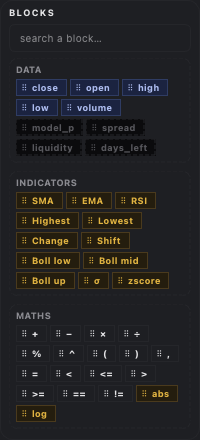
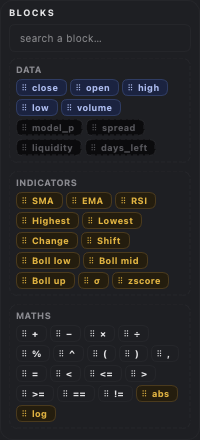
Square the tiles, fix the `=` and drop the fill tile from a new variable
Chips and palette blocks are 6px squares, not 11px pills. A named line is
`name =` and nothing more: the `=` is a fixed fixture — no handle, no ×,
no drag — drawn as quiet text, and adding a variable no longer drops an
empty slot to fill.

diff --git a/src/lalala/formula_builder.py b/src/lalala/formula_builder.py
@@ -403,10 +403,13 @@ class PaletteBlock(QFrame):
 class Chip(QFrame):
     """One token on a line. A `None` token is an empty slot to be filled."""
 
-    def __init__(self, token, builder: "FormulaBuilder", parent=None) -> None:
+    def __init__(
+        self, token, builder: "FormulaBuilder", parent=None, fixed: bool = False
+    ) -> None:
         super().__init__(parent)
         self.token = token
         self.builder = builder
+        self.fixed = fixed
         self.strip = None
         self._press: QPoint | None = None
         self.setObjectName("formulaChip")
@@ -462,18 +465,27 @@ class Chip(QFrame):
         self.label.setText("▢" if slot else str(self.token))
         self.setProperty("slot", slot)
         self.setProperty("group", self.group())
-        self.handle.setVisible(not slot)
-        self.remove_button.setVisible(not slot)
+        self.setProperty("fixed", self.fixed)
+        self.handle.setVisible(not slot and not self.fixed)
+        self.remove_button.setVisible(not slot and not self.fixed)
         self.setAcceptDrops(slot)
         self.setCursor(
-            Qt.CursorShape.PointingHandCursor
-            if slot
-            else Qt.CursorShape.OpenHandCursor
+            Qt.CursorShape.ArrowCursor
+            if self.fixed
+            else (
+                Qt.CursorShape.PointingHandCursor
+                if slot
+                else Qt.CursorShape.OpenHandCursor
+            )
         )
         self.setToolTip(
-            "empty slot — drop a number in, or click it and type one"
-            if slot
-            else "drag by the handle · × takes it off"
+            ""
+            if self.fixed
+            else (
+                "empty slot — drop a number in, or click it and type one"
+                if slot
+                else "drag by the handle · × takes it off"
+            )
         )
         self._repolish()
 
@@ -490,7 +502,7 @@ class Chip(QFrame):
             self._press = event.position().toPoint()
 
     def mouseMoveEvent(self, event) -> None:  # noqa: N802
-        if self._press is None or self.is_slot():
+        if self._press is None or self.is_slot() or self.fixed:
             return
         moved = (event.position().toPoint() - self._press).manhattanLength()
         if moved < QApplication.startDragDistance():
@@ -767,8 +779,8 @@ class ChipStrip(QFrame):
     def set_caption(self, text: str) -> None:
         self.caption.setText(text)
 
-    def add_chip(self, token, index: int | None = None) -> Chip:
-        chip = Chip(token, self.builder, self.zone)
+    def add_chip(self, token, index: int | None = None, fixed: bool = False) -> Chip:
+        chip = Chip(token, self.builder, self.zone, fixed=fixed)
         return self._place(chip, index)
 
     def add_name_chip(self, token="", index: int | None = None) -> NameChip:
@@ -1553,6 +1565,9 @@ class FormulaBuilder(QWidget):
                     and plan[1] == ("token", "=")
                 ):
                     strip.add_name_chip(payload)
+                elif kind == "token" and payload == "=":
+                    # The assignment's `=` is a fixture, not a token to move.
+                    strip.add_chip("=", fixed=True)
                 else:
                     strip.add_chip(payload)
         self._refresh()
@@ -1577,16 +1592,16 @@ class FormulaBuilder(QWidget):
             self.strip_layout.addWidget(self.strips[-1])
 
     def add_variable(self) -> ChipStrip:
-        """Add a named series above the condition: `name = ▢`.
+        """Add a named series above the condition: `name =`.
 
-        The name field takes the cursor, so it is obvious where to type; the
-        expression then goes in the empty slot after the `=`.
+        The line is just the name field and the fixed `=`: nothing else to
+        fill. The name takes the cursor, and the series goes on the line by
+        dragging a block onto it.
         """
         index = max(0, len(self.strips) - 1)
         strip = self.add_strip(at=index)
         name = strip.add_name_chip("")
-        strip.add_chip("=")
-        strip.add_chip(None)
+        strip.add_chip("=", fixed=True)
         self._refresh()
         name.focus_name()
         return strip

diff --git a/tests/test_formula_builder.py b/tests/test_formula_builder.py
@@ -364,17 +364,19 @@ def test_add_variable_gives_a_name_field(
     app.processEvents()
 
     chips = strip.chips()
-    # A line starts with the editable name, then `=`, then an empty slot.
+    # Just the editable name and the fixed `=`: nothing else to fill.
     assert isinstance(chips[0], NameChip)
     assert chips[0].edit.placeholderText() == "name"
     assert chips[0].edit.hasFocus()
-    assert [chip.token for chip in chips[1:]] == ["=", None]
+    assert [chip.token for chip in chips[1:]] == ["="]
+    assert chips[1].fixed is True
+    assert chips[1].remove_button.isVisible() is False
+    assert strip.has_empty_slots() is False
 
     # Typing the name makes it the line's first token.
     chips[0].edit.setText("band")
     app.processEvents()
     assert strip.tokens()[0] == "band"
-    assert strip.has_empty_slots() is True
 
 
 def test_the_lines_sit_under_let_and_buy_when(

diff --git a/src/lalala/theme.py b/src/lalala/theme.py
@@ -122,9 +122,9 @@ QLabel#dragHandle {{
     font-size: 10px;
 }}
 
-/* A palette block and a chip: one pill, coloured by group. */
+/* A palette block and a chip: one tile, coloured by group. */
 #paletteBlock, #formulaChip {{
-    border-radius: 11px;
+    border-radius: 6px;
 }}
 #paletteBlock:hover {{
     border-width: 1px;
@@ -186,6 +186,14 @@ QLabel#blockLabel {{
 }}
 #formulaChip[armed="true"] {{
     border: 1px solid {ACCENT};
+}}
+/* The fixed `=` of a named series: text, not a tile to move. */
+#formulaChip[fixed="true"] {{
+    background-color: transparent;
+    border: none;
+}}
+#formulaChip[fixed="true"] QLabel {{
+    color: {TEXT_MUTED};
 }}
 /* A palette block nothing here carries: named, but dashed and faint. */
 #paletteBlock[missing="true"] {{

diff --git a/README.md b/README.md
@@ -452,10 +452,10 @@ around the builder moves if a long rule needs more room — and the formula as
 text is one small read-only line that scrolls sideways. The lines are grouped
 into subsections: named series sit under **`Variables`**, which is always shown
 with its **`+ Add variable`** button — that adds a named line above the
-condition. That line starts with a small **name field**, the one token you type
-by hand, styled like the chips around it, then `=`, then an empty slot to drop
-the series into. The condition sits under **`BUY WHEN`** on the entry side and
-**`EXIT WHEN`** on the exit side. The **Selected block** is
+condition. That line is just the small **name field**, the one token you type
+by hand (styled like the chips around it), and a fixed `=`; nothing else. Drag
+a block onto the line to give it a value. The condition sits under **`BUY
+WHEN`** on the entry side and **`EXIT WHEN`** on the exit side. The **Selected block** is
 the right rail (a little under 250 px), pushed against the edge and scrolling
 in place: its name, source and live values stay readable in a short tile.
 Clicking a chip selects it: the card shows its name, its source and its window,
